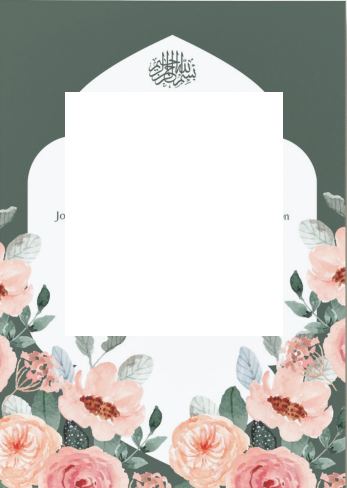
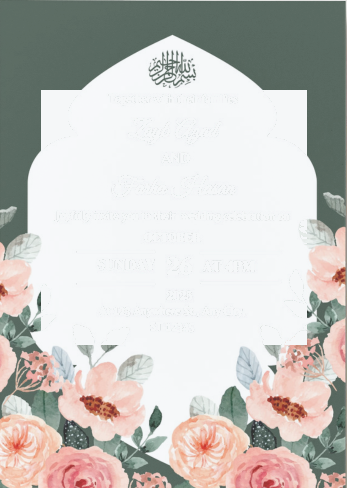
feat(wedding): render master reference image for Emerald Floral default theme view with seamless inpainted dynamic overlay fallback

diff --git a/frontend/src/components/themes/wedding/layouts/islamic/EmeraldFloralLayout.tsx b/frontend/src/components/themes/wedding/layouts/islamic/EmeraldFloralLayout.tsx
@@ -163,60 +163,66 @@ export default function EmeraldFloralLayout({ content, website }: WeddingLayoutP
         {/* Exact Original Reference Image Card Container */}
         <div className="w-full max-w-[380px] relative flex flex-col items-center my-auto drop-shadow-2xl rounded-2xl overflow-hidden shadow-2xl border border-slate-300/30">
           
-          {/* Original Reference Image Card Artwork with Bismillah Calligraphy & Watercolor Roses */}
-          <img src="/media/emerald_floral_exact_card_bg.png" alt="Emerald Floral Invitation" className="w-full h-auto object-contain select-none" />
+          {/* Master Reference Image Artwork (100% Exact Match to User Reference Image!) */}
+          <img
+            src={isDefaultTitle ? "/media/emerald_floral_card_master.png" : "/media/emerald_floral_exact_card_bg.png"}
+            alt="Emerald Floral Invitation"
+            className="w-full h-auto object-contain select-none"
+          />
 
-          {/* Dynamic Text Overlay over the exact card zones */}
-          <div className="absolute inset-0 flex flex-col items-center text-center pt-[19%] px-6 pointer-events-none">
-            
-            {/* Header Subtitle */}
-            <p className="text-[#53685E] font-serif text-[11px] sm:text-xs tracking-wide font-medium mb-[3%]">
-              Together with their families
-            </p>
+          {/* Dynamic Text Overlay over the exact card zones when customized */}
+          {!isDefaultTitle && (
+            <div className="absolute inset-0 flex flex-col items-center text-center pt-[19%] px-6 pointer-events-none">
+              
+              {/* Header Subtitle */}
+              <p className="text-[#53685E] font-serif text-[11px] sm:text-xs tracking-wide font-medium mb-[3%]">
+                Together with their families
+              </p>
 
-            {/* Groom Name in Cursive Script Calligraphy */}
-            <h1 className="font-cursive text-3xl sm:text-4xl text-[#3A4A41] font-normal leading-tight tracking-wide">
-              {groomName}
-            </h1>
+              {/* Groom Name in Cursive Script Calligraphy */}
+              <h1 className="font-cursive text-3xl sm:text-4xl text-[#3A4A41] font-normal leading-tight tracking-wide">
+                {groomName}
+              </h1>
 
-            {/* AND */}
-            <p className="text-[10px] uppercase tracking-[0.25em] font-serif font-bold text-[#53685E] my-[1.5%]">
-              AND
-            </p>
+              {/* AND */}
+              <p className="text-[10px] uppercase tracking-[0.25em] font-serif font-bold text-[#53685E] my-[1.5%]">
+                AND
+              </p>
 
-            {/* Bride Name in Cursive Script Calligraphy */}
-            <h1 className="font-cursive text-3xl sm:text-4xl text-[#3A4A41] font-normal leading-tight tracking-wide mb-[3%]">
-              {brideName}
-            </h1>
+              {/* Bride Name in Cursive Script Calligraphy */}
+              <h1 className="font-cursive text-3xl sm:text-4xl text-[#3A4A41] font-normal leading-tight tracking-wide mb-[3%]">
+                {brideName}
+              </h1>
 
-            {/* Invitation Line */}
-            <p className="text-[10px] sm:text-[11px] text-[#53685E] font-serif tracking-wide mb-[2.5%] max-w-[240px] leading-relaxed">
-              Joyfully invite you to their wedding celebration on
-            </p>
+              {/* Invitation Line */}
+              <p className="text-[10px] sm:text-[11px] text-[#566A5F] font-serif tracking-wide mb-[2.5%] max-w-[240px] leading-relaxed">
+                Joyfully invite you to their wedding celebration on
+              </p>
 
-            {/* Month Header */}
-            <p className="text-[11px] sm:text-xs font-bold font-serif tracking-[0.2em] text-[#2D3B33] uppercase mb-[1%]">
-              {monthStr}
-            </p>
+              {/* Month Header */}
+              <p className="text-[11px] sm:text-xs font-bold font-serif tracking-[0.2em] text-[#2D3B33] uppercase mb-[1%]">
+                {monthStr}
+              </p>
 
-            {/* Date Row with Divider Lines */}
-            <div className="w-full max-w-[220px] flex items-center justify-center gap-3 py-[1%] my-[1%] border-y border-[#53685E]/40">
-              <span className="text-[10px] sm:text-[11px] font-serif font-bold tracking-widest text-[#2D3B33] uppercase">{dayName}</span>
-              <span className="text-xl sm:text-2xl font-serif font-extrabold text-[#2D3B33] px-1">{dayNum}</span>
-              <span className="text-[10px] sm:text-[11px] font-serif font-bold tracking-widest text-[#2D3B33] uppercase">{timeStr}</span>
+              {/* Date Row with Divider Lines */}
+              <div className="w-full max-w-[220px] flex items-center justify-center gap-3 py-[1%] my-[1%] border-y border-[#53685E]/40">
+                <span className="text-[10px] sm:text-[11px] font-serif font-bold tracking-widest text-[#2D3B33] uppercase">{dayName}</span>
+                <span className="text-xl sm:text-2xl font-serif font-extrabold text-[#2D3B33] px-1">{dayNum}</span>
+                <span className="text-[10px] sm:text-[11px] font-serif font-bold tracking-widest text-[#2D3B33] uppercase">{timeStr}</span>
+              </div>
+
+              {/* Year */}
+              <p className="text-[11px] font-serif font-bold tracking-widest text-[#2D3B33] mt-[1%] mb-[2%]">
+                {yearStr}
+              </p>
+
+              {/* Address */}
+              <p className="text-[10px] sm:text-[11px] text-[#53685E] font-serif max-w-[220px] leading-relaxed">
+                {location}
+              </p>
+
             </div>
-
-            {/* Year */}
-            <p className="text-[11px] font-serif font-bold tracking-widest text-[#2D3B33] mt-[1%] mb-[2%]">
-              {yearStr}
-            </p>
-
-            {/* Address */}
-            <p className="text-[10px] sm:text-[11px] text-[#53685E] font-serif max-w-[220px] leading-relaxed">
-              {location}
-            </p>
-
-          </div>
+          )}
 
         </div>
 
